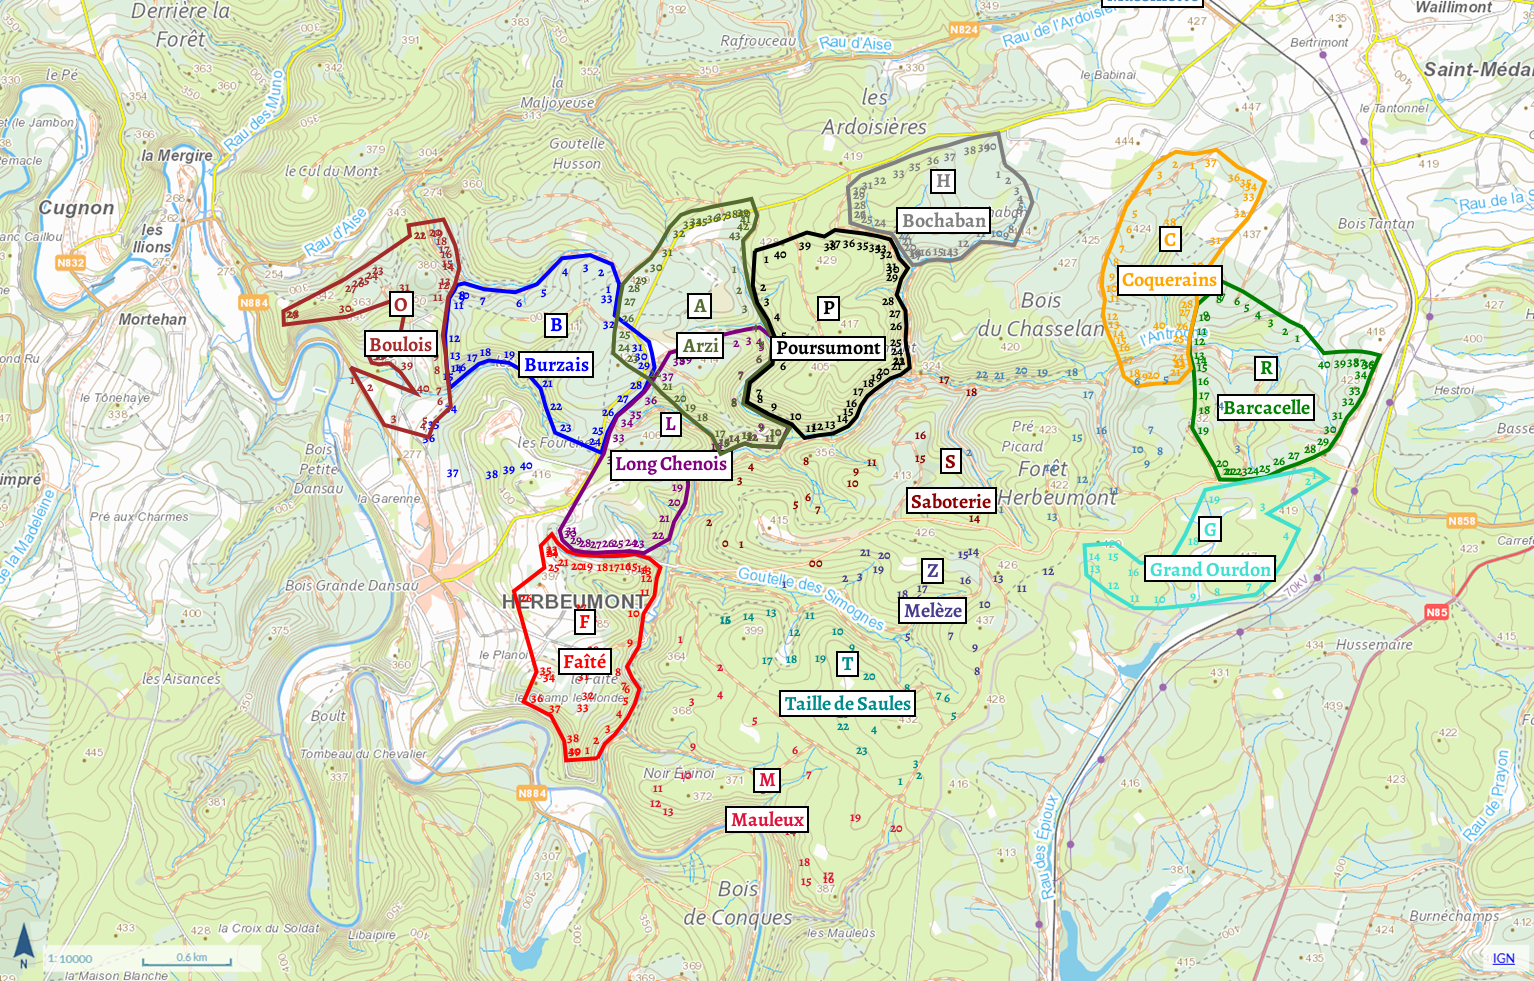
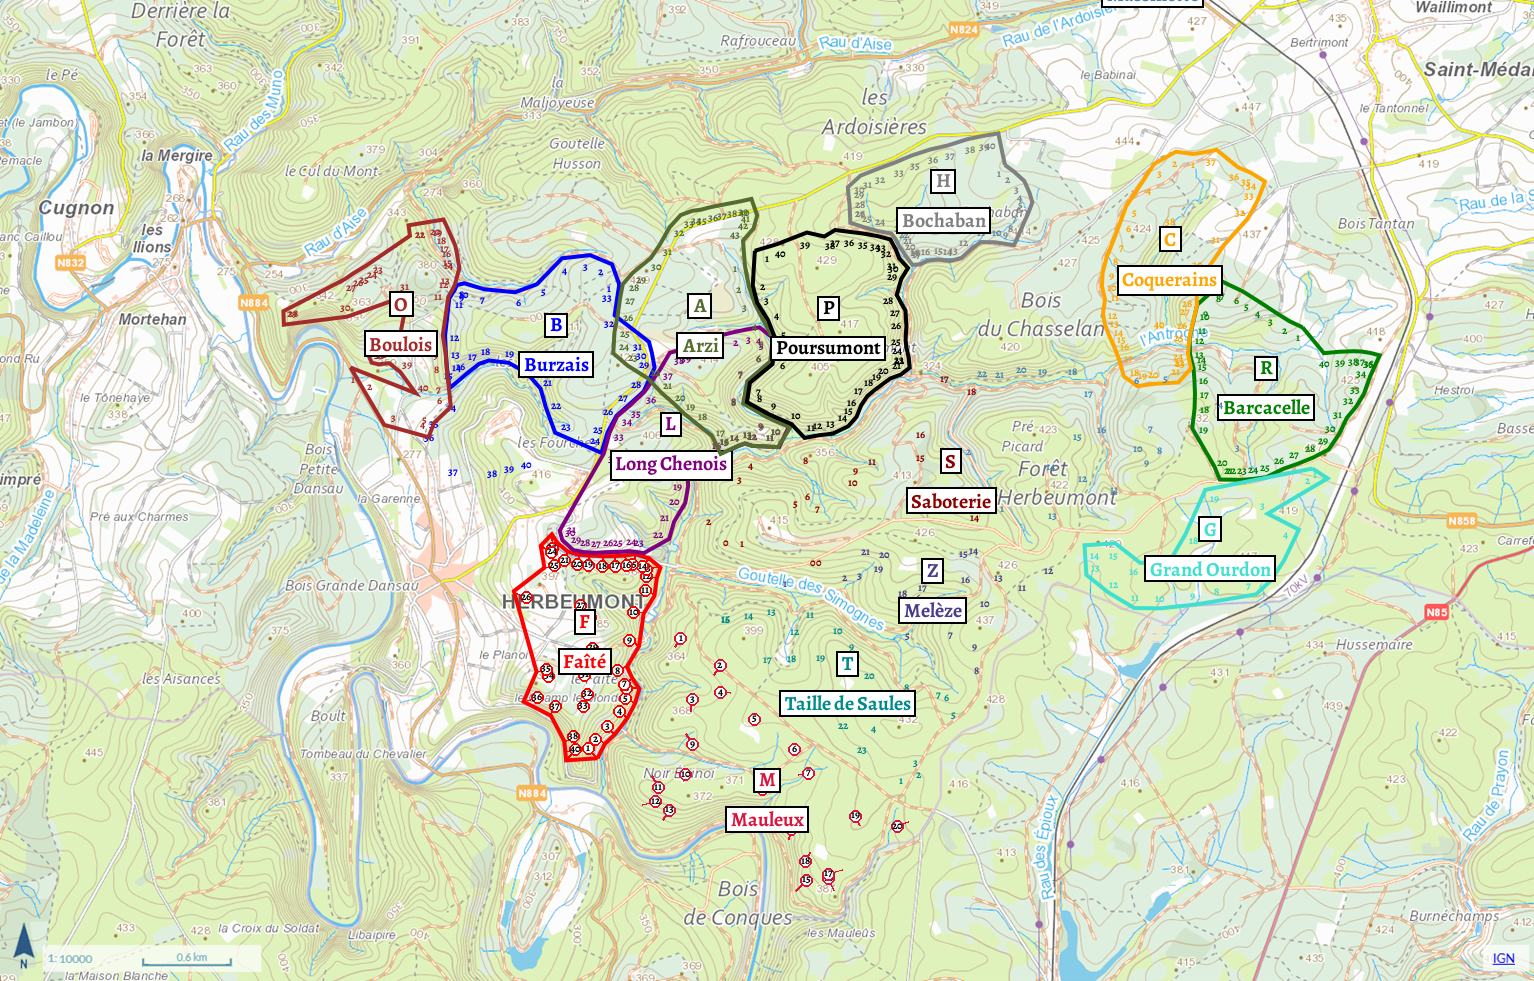
added option in battue.json entries for circle-pointer for each poste number

diff --git a/src/map.py b/src/map.py
@@ -9,6 +9,8 @@ import numpy as np
 from shapely import centroid, Polygon
 
 poste_distance_from_line = 10
+poste_font_size = 11
+circle_radius_multiplier = 0.6  # radius = poste_font_size * circle_radius_multiplier
 
 
 class ImageCoordinate:
@@ -47,8 +49,32 @@ class Map:
                 point = self.adjust_poste_point(point, battue.parity, line_vertices)
             point += poste.number_offset
             # point = np.array([xcor, ycor])
-            fnt = ImageFont.truetype(paths["font"], 13)
+            fnt = ImageFont.truetype(paths["font"], poste_font_size)
             draw.text((point[0], point[1]), poste.number, anchor="mm", fill=battue.colour, font=fnt)
+
+    def draw_circled_postes(self, battue: Battue, paths):
+        draw = ImageDraw.Draw(self.image)
+        fnt = ImageFont.truetype(paths["font"], poste_font_size)
+        radius = int(poste_font_size * circle_radius_multiplier)
+        line_vertices = self.get_line_vertices(battue)
+        for poste in battue.postes:
+            raw_point = self.convert_lambert_to_pixel(poste.lambert_point) + poste.line_offset
+            point = raw_point.copy()
+            if not poste.skip_path:
+                point = self.adjust_poste_point(point, battue.parity, line_vertices)
+            point = point + poste.number_offset
+            # Line from the raw GPS point to the circle centre
+            draw.line([(raw_point[0], raw_point[1]), (point[0], point[1])], fill=battue.colour, width=2)
+            # White-filled circle with primary colour outline
+            bbox = [point[0] - radius, point[1] - radius, point[0] + radius, point[1] + radius]
+            draw.ellipse(bbox, fill="white", outline=battue.colour, width=2)
+            # Black number text — compute precise top-left so text bbox center == circle center
+            tb = draw.textbbox((0, 0), poste.number, font=fnt)
+            text_w = tb[2] - tb[0]
+            text_h = tb[3] - tb[1]
+            text_x = point[0] - text_w / 2 - tb[0]
+            text_y = point[1] - text_h / 2 - tb[1]
+            draw.text((text_x, text_y), poste.number, fill="black", font=fnt)
 
     def draw_line(self, battue: Battue):
         draw = aggdraw.Draw(self.image)  # created object for image
@@ -175,7 +201,10 @@ def generate_map(paths, draw_offsets=False):
             battues.append(battue)
             if not battue.affut:
                 map.draw_line(battue)
-            map.draw_postes(battue, paths)
+            if battue.circled_postes:
+                map.draw_circled_postes(battue, paths)
+            else:
+                map.draw_postes(battue, paths)
             map.draw_battue_name(battue, paths)
             if draw_offsets:
                 map.draw_line_offsets(battue)

diff --git a/src/battue.py b/src/battue.py
@@ -33,11 +33,12 @@ class Battue:
     def __init__(self, battue_json: str, paths):
         self.name: str = battue_json["name"]
         self.label: str = battue_json["label"]
-        self.postes: list(Poste) = []
+        self.postes: list[Poste] = []
         self.parity = battue_json["parity"]
         self.colour = battue_json["colour"]
         self.colour_secondary = battue_json["colour_secondary"]
         self.affut: bool = battue_json.get("affut", False)
+        self.circled_postes: bool = battue_json.get("circled_postes", False)
         postes_csv_file = open(paths["postes_csv"], newline='', encoding='utf-8')
         postes_csv_reader = csv.DictReader(postes_csv_file, delimiter=';')
         for row in postes_csv_reader:
